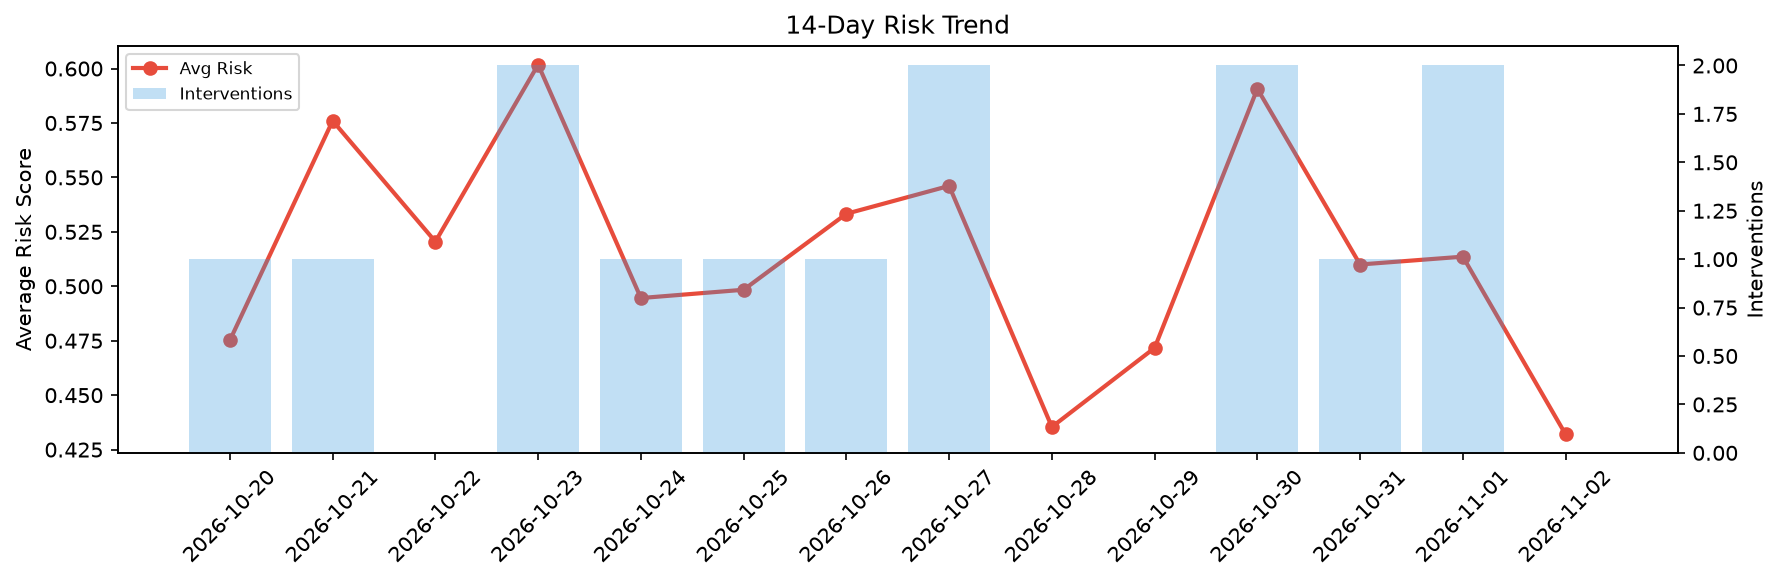
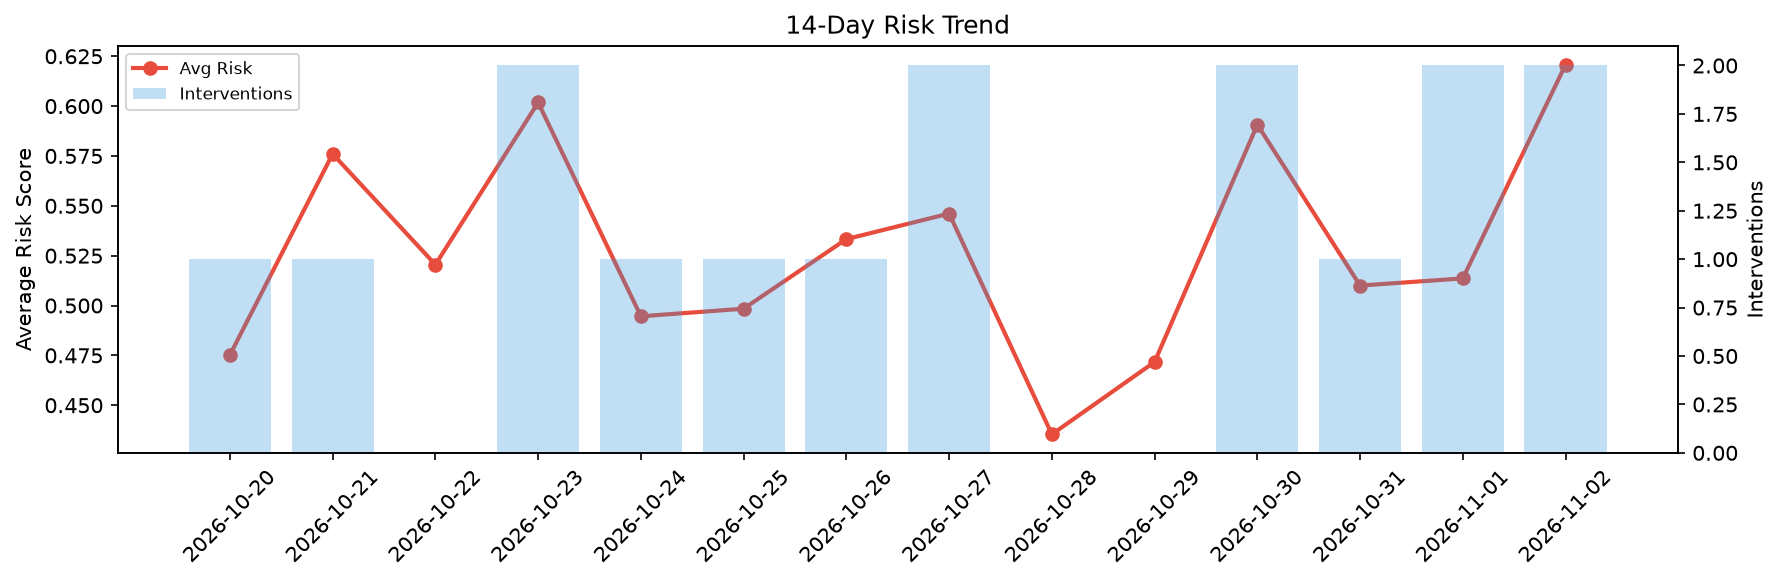
agent-improvement: daily cycle 2026-11-02T22:46

diff --git a/logs/2026-11-02.md b/logs/2026-11-02.md
@@ -1,6 +1,6 @@
 # Agent Improvement Report — 2026-11-02
 
-**Cycle ID:** `cd9c1c19` | **Avg Risk:** 0.432 | **Interventions:** 0/4
+**Cycle ID:** `65afcdfa` | **Avg Risk:** 0.6208 | **Interventions:** 2/4
 
 ![Dashboard](2026-11-02_dashboard.png)
 
@@ -10,18 +10,18 @@
 
 | Domain | Risk Score | Decision | Alerts |
 |--------|-----------|----------|--------|
-| code_review | 0.3683 | monitor | none |
-| incident_response | 0.5598 | monitor | mttr |
-| data_pipeline | 0.4934 | monitor | schema_drift |
-| deployment | 0.3064 | monitor | none |
+| code_review | 0.5764 | monitor | complexity |
+| incident_response | 0.6914 | intervene | severity, blast_radius |
+| data_pipeline | 0.7144 | intervene | freshness, schema_drift |
+| deployment | 0.501 | monitor | canary_error |
 
 ## Delta vs Yesterday
 
 | Domain | Today | Yesterday | Change |
 |--------|-------|-----------|--------|
-| code_review | 0.3683 | 0.197 | 📈 87.0% |
-| incident_response | 0.5598 | 0.5268 | 📈 6.3% |
-| data_pipeline | 0.4934 | 0.6058 | 📉 -18.6% |
-| deployment | 0.3064 | 0.7248 | 📉 -57.7% |
+| code_review | 0.5764 | 0.197 | 📈 192.6% |
+| incident_response | 0.6914 | 0.5268 | 📈 31.2% |
+| data_pipeline | 0.7144 | 0.6058 | 📈 17.9% |
+| deployment | 0.501 | 0.7248 | 📉 -30.9% |
 
 **Refinement:** `{'adjustment': 'maintain', 'trend': 'improving', 'window': 4}`
